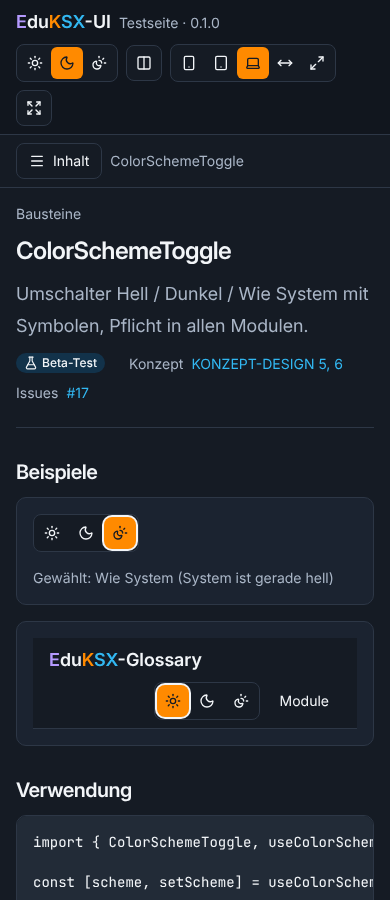
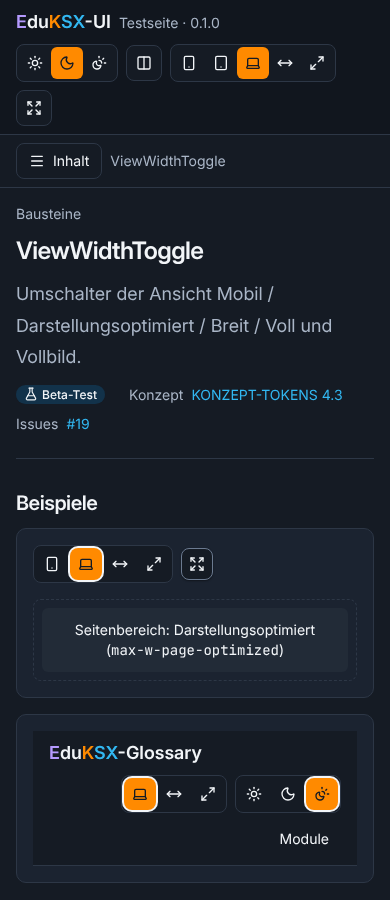
Ansicht-Umschalter und Vollbild als Bausteine
Refs #19

Claude-Session: https://claude.ai/code/session_017cjVRfnzGsvvfNRc5PakGm

diff --git a/src/components/view-width-toggle.tsx b/src/components/view-width-toggle.tsx
@@ -1,0 +1,128 @@
+import { useCallback, useEffect, useState } from 'react';
+import { cn } from '../lib/cn';
+import { IconButton } from './button';
+import { ExpandSymbol, LaptopSymbol, Maximize2Symbol, MoveHorizontalSymbol, ShrinkSymbol, SmartphoneSymbol } from './symbols';
+
+/** Seitenbreite der Ansicht (KONZEPT-TOKENS 4.3, #19): Mobil, Darstellungsoptimiert (Vorgabe), Breit, Voll. */
+export type ViewWidth = 'mobile' | 'optimized' | 'wide' | 'full';
+
+export const VIEW_WIDTHS: ViewWidth[] = ['mobile', 'optimized', 'wide', 'full'];
+
+export const VIEW_WIDTH_LABELS: Record<ViewWidth, string> = {
+    mobile: 'Mobil',
+    optimized: 'Darstellungsoptimiert',
+    wide: 'Breit',
+    full: 'Voll (ganze Breite)',
+};
+
+/**
+ * Tailwind-Klasse der Seitenbreite je Ansicht. Darstellungsoptimierte Seiten (Detailseite, Konto, Anmeldung,
+ * Formulare) nutzen immer `optimized`, auch wenn die Person «Breit» oder «Voll» gewählt hat.
+ */
+export const VIEW_WIDTH_CLASSES: Record<ViewWidth, string> = {
+    mobile: 'max-w-page-mobile',
+    optimized: 'max-w-page-optimized',
+    wide: 'max-w-page-wide',
+    full: 'max-w-none',
+};
+
+export const VIEW_WIDTH_STORAGE_KEY = 'eduksx:ansicht';
+
+function readStored(key: string): ViewWidth {
+    try {
+        const raw = window.localStorage.getItem(key);
+        return raw && (VIEW_WIDTHS as string[]).includes(raw) ? (raw as ViewWidth) : 'optimized';
+    } catch {
+        return 'optimized';
+    }
+}
+
+/** Gewählte Ansicht lesen und je Browser speichern (Vorgabe «Darstellungsoptimiert»). */
+export function useViewWidth(storageKey: string = VIEW_WIDTH_STORAGE_KEY): [ViewWidth, (v: ViewWidth) => void] {
+    const [view, setState] = useState<ViewWidth>(() => (typeof window === 'undefined' ? 'optimized' : readStored(storageKey)));
+    const set = useCallback(
+        (v: ViewWidth) => {
+            try {
+                window.localStorage.setItem(storageKey, v);
+            } catch {
+                /* privater Modus: gilt bis zum Neuladen */
+            }
+            setState(v);
+        },
+        [storageKey],
+    );
+    return [view, set];
+}
+
+export type ViewWidthToggleProps = {
+    value: ViewWidth;
+    onChange: (view: ViewWidth) => void;
+    label?: string;
+    /** Welche Ansichten angeboten werden; «Mobil» lässt sich weglassen, wenn das Modul keine eigene Mobilansicht hat */
+    options?: ViewWidth[];
+    tooltipSide?: 'top' | 'bottom';
+    className?: string;
+};
+
+const ICONS: Record<ViewWidth, typeof LaptopSymbol> = {
+    mobile: SmartphoneSymbol,
+    optimized: LaptopSymbol,
+    wide: MoveHorizontalSymbol,
+    full: Maximize2Symbol,
+};
+
+/**
+ * Umschalter der Ansicht (#19, Vorbild Glossary `view-width-tabs`, DEC-023): Symbol-Knöpfe mit `aria-pressed`,
+ * `aria-label` und Tooltip. Eigene Symbole, nicht verwechselbar mit «Wie System» beim Farbschema.
+ */
+export function ViewWidthToggle({ value, onChange, label = 'Ansicht', options = VIEW_WIDTHS, tooltipSide = 'bottom', className }: ViewWidthToggleProps) {
+    return (
+        <div role="group" aria-label={label} className={cn('inline-flex gap-0.5 rounded-md border border-border bg-background p-0.5', className)}>
+            {options.map((v) => {
+                const Icon = ICONS[v];
+                const active = v === value;
+                return (
+                    <IconButton
+                        key={v}
+                        label={VIEW_WIDTH_LABELS[v]}
+                        icon={<Icon />}
+                        pressed={active}
+                        size="icon-sm"
+                        variant={active ? 'default' : 'ghost'}
+                        tooltipSide={tooltipSide}
+                        onClick={() => onChange(v)}
+                    />
+                );
+            })}
+        </div>
+    );
+}
+
+export type FullscreenButtonProps = { tooltipSide?: 'top' | 'bottom'; className?: string };
+
+/**
+ * Vollbild ein und aus (#19, Pflicht auf dem Desktop). Escape beendet das Vollbild (Browser). Kann der Browser kein
+ * Vollbild (z. B. iPhone), erscheint der Knopf nicht.
+ */
+export function FullscreenButton({ tooltipSide = 'bottom', className }: FullscreenButtonProps) {
+    const [active, setActive] = useState(false);
+    const [supported, setSupported] = useState(false);
+    useEffect(() => {
+        setSupported(typeof document !== 'undefined' && typeof document.documentElement.requestFullscreen === 'function');
+        const on = () => setActive(document.fullscreenElement != null);
+        document.addEventListener('fullscreenchange', on);
+        return () => document.removeEventListener('fullscreenchange', on);
+    }, []);
+    if (!supported) return null;
+    return (
+        <IconButton
+            label={active ? 'Vollbild beenden' : 'Vollbild'}
+            icon={active ? <ShrinkSymbol /> : <ExpandSymbol />}
+            size="icon-sm"
+            variant="outline"
+            tooltipSide={tooltipSide}
+            className={className}
+            onClick={() => (active ? document.exitFullscreen?.() : document.documentElement.requestFullscreen?.())}
+        />
+    );
+}

diff --git a/site/src/sections/bausteine/view-width-toggle.tsx b/site/src/sections/bausteine/view-width-toggle.tsx
@@ -1,0 +1,56 @@
+import { useState } from 'react';
+import { AppHeader } from '../../../../src/components/app-header';
+import { ColorSchemeToggle, type ColorScheme } from '../../../../src/components/color-scheme-toggle';
+import { FullscreenButton, VIEW_WIDTH_CLASSES, VIEW_WIDTH_LABELS, ViewWidthToggle, type ViewWidth } from '../../../../src/components/view-width-toggle';
+import { cn } from '../../../../src/lib/cn';
+import { Example } from '../../ui';
+import { MODULES } from './beispieldaten';
+import { BausteinSeite } from './vorlage';
+
+export function ViewWidthToggleSeite() {
+    // Nur Anzeige: Das Beispiel ändert die Testseite nicht (dafür ist die Vorschau-Leiste da).
+    const [view, setView] = useState<ViewWidth>('optimized');
+    const [scheme, setScheme] = useState<ColorScheme>('system');
+    return (
+        <BausteinSeite
+            beispiele={
+                <div className="space-y-4">
+                    <Example label="ViewWidthToggle und FullscreenButton">
+                        <div className="flex flex-wrap items-center gap-2">
+                            <ViewWidthToggle value={view} onChange={setView} />
+                            <FullscreenButton />
+                        </div>
+                        <div className="mt-4 rounded-md border border-dashed border-border p-2">
+                            <div className={cn('mx-auto rounded-sm bg-muted p-3 text-center text-sm', VIEW_WIDTH_CLASSES[view])} aria-live="polite">
+                                Seitenbereich: {VIEW_WIDTH_LABELS[view]} (<code>{VIEW_WIDTH_CLASSES[view]}</code>)
+                            </div>
+                        </div>
+                    </Example>
+                    <Example label="Kopfzeile rechts: Ansicht, Farbschema, Modulwechsel" className="p-0">
+                        <AppHeader product="Glossary" homeUrl="#/ansicht" modules={MODULES} currentModule="glossary">
+                            <div className="hidden desk:block">
+                                <ViewWidthToggle value={view} onChange={setView} options={['optimized', 'wide', 'full']} />
+                            </div>
+                            <ColorSchemeToggle value={scheme} onChange={setScheme} />
+                        </AppHeader>
+                    </Example>
+                </div>
+            }
+            code={`
+import { FullscreenButton, VIEW_WIDTH_CLASSES, ViewWidthToggle, useViewWidth } from '@eduksx/ui';
+
+const [view, setView] = useViewWidth();   // speichert «eduksx:ansicht», Vorgabe «Darstellungsoptimiert»
+
+<ViewWidthToggle value={view} onChange={setView} />
+<FullscreenButton />
+<main className={cn('mx-auto', VIEW_WIDTH_CLASSES[view])}>…</main>
+`}
+            pruefen={[
+                'Vier Symbol-Knöpfe Handy, Laptop, Pfeil, Maximieren; Tooltip und Bildschirmleser sagen die Ansicht',
+                'Seitenbereich wird 384 px, 1152 px, 1536 px bzw. ganz breit',
+                'Vollbild startet, Knopf heisst danach «Vollbild beenden», Escape beendet',
+                'In der Kopfzeile: auf dem Handy ist die Ansicht ausgeblendet (desk:), Farbschema bleibt',
+            ]}
+        />
+    );
+}

diff --git a/site/src/registry.ts b/site/src/registry.ts
@@ -14,6 +14,7 @@ import { AppHeaderSeite } from './sections/bausteine/app-header';
 import { ModuleSwitcherSeite } from './sections/bausteine/module-switcher';
 import { HistoryListSeite } from './sections/bausteine/history-list';
 import { ColorSchemeToggleSeite } from './sections/bausteine/color-scheme-toggle';
+import { ViewWidthToggleSeite } from './sections/bausteine/view-width-toggle';
 import { ButtonSeite } from './sections/bausteine/button';
 import { TooltipSeite } from './sections/bausteine/tooltip';
 import { FieldSeite } from './sections/bausteine/field';
@@ -58,6 +59,7 @@ export const ENTRIES: Entry[] = [
     { id: 'module-switcher', title: 'ModuleSwitcher', group: 'Bausteine', status: 'beta', summary: 'Modulwechsel als Knopf mit Liste, per Tastatur bedienbar.', concept: { path: 'https://github.com/MarkusKeller8200/EduKSX-Architektur/blob/main/docs/KONZEPT-DESIGN.md', label: 'KONZEPT-DESIGN 6, Plattform S7' }, issues: [6, 12], Page: ModuleSwitcherSeite },
     { id: 'history-list', title: 'HistoryList', group: 'Bausteine', status: 'beta', summary: 'Ansicht «Verlauf», gleich in allen Modulen (DB A7).', concept: { path: 'https://github.com/MarkusKeller8200/EduKSX-Architektur/blob/main/docs/KONZEPT-DESIGN.md', label: 'KONZEPT-DESIGN 4, DB A7' }, issues: [7, 13], Page: HistoryListSeite },
     { id: 'farbschema', title: 'ColorSchemeToggle', group: 'Bausteine', status: 'beta', summary: 'Umschalter Hell / Dunkel / Wie System mit Symbolen, Pflicht in allen Modulen.', concept: { path: 'https://github.com/MarkusKeller8200/EduKSX-Architektur/blob/main/docs/KONZEPT-DESIGN.md', label: 'KONZEPT-DESIGN 5, 6' }, issues: [17], Page: ColorSchemeToggleSeite },
+    { id: 'ansicht', title: 'ViewWidthToggle', group: 'Bausteine', status: 'beta', summary: 'Umschalter der Ansicht Mobil / Darstellungsoptimiert / Breit / Voll und Vollbild.', concept: { path: 'docs/KONZEPT-TOKENS.md', label: 'KONZEPT-TOKENS 4.3' }, issues: [19], Page: ViewWidthToggleSeite },
     { id: 'button', title: 'Button', group: 'Bausteine', status: 'beta', summary: 'Haupt-, Neben-, Umriss-, Text-, Gefahr-Knopf und Link, Symbol-Knöpfe mit Tooltip.', concept: { path: 'docs/KONZEPT-BAUSTEINE.md', label: 'KONZEPT-BAUSTEINE §2.1' }, issues: [27], Page: ButtonSeite },
     { id: 'tooltip', title: 'Tooltip', group: 'Bausteine', status: 'beta', summary: 'Zusatzinfo beim Darüberfahren und beim Fokus (WCAG 1.4.13).', concept: { path: 'docs/KONZEPT-BAUSTEINE.md', label: 'KONZEPT-BAUSTEINE §2.2' }, issues: [27], Page: TooltipSeite },
     { id: 'formularfelder', title: 'Formularfelder', group: 'Bausteine', status: 'beta', summary: 'Field mit Beschriftung, Hinweis und Fehler; Input, Textarea, NativeSelect, Checkbox.', concept: { path: 'docs/KONZEPT-BAUSTEINE.md', label: 'KONZEPT-BAUSTEINE §2.3' }, issues: [27], Page: FieldSeite },

diff --git a/tests/view-width.test.tsx b/tests/view-width.test.tsx
@@ -1,0 +1,34 @@
+import { act, render, renderHook, screen } from '@testing-library/react';
+import userEvent from '@testing-library/user-event';
+import { useState } from 'react';
+import { VIEW_WIDTH_STORAGE_KEY, ViewWidthToggle, useViewWidth, type ViewWidth } from '../src';
+
+function Demo() {
+    const [v, setV] = useState<ViewWidth>('optimized');
+    return <ViewWidthToggle value={v} onChange={setV} />;
+}
+
+describe('ViewWidthToggle (#19)', () => {
+    afterEach(() => window.localStorage.clear());
+
+    it('hat vier benannte Ansichten, Vorgabe darstellungsoptimiert', async () => {
+        const user = userEvent.setup();
+        render(<Demo />);
+        expect(screen.getByRole('group', { name: 'Ansicht' })).toBeInTheDocument();
+        const breit = screen.getByRole('button', { name: 'Breit' });
+        expect(screen.getByRole('button', { name: 'Darstellungsoptimiert' })).toHaveAttribute('aria-pressed', 'true');
+        await user.click(breit);
+        expect(breit).toHaveAttribute('aria-pressed', 'true');
+        expect(screen.getAllByRole('button', { pressed: true })).toHaveLength(1);
+        for (const name of ['Mobil', 'Voll (ganze Breite)']) expect(screen.getByRole('button', { name })).toBeInTheDocument();
+    });
+
+    it('useViewWidth speichert die Wahl und ignoriert ungültige Werte', () => {
+        const { result } = renderHook(() => useViewWidth());
+        expect(result.current[0]).toBe('optimized');
+        act(() => result.current[1]('full'));
+        expect(window.localStorage.getItem(VIEW_WIDTH_STORAGE_KEY)).toBe('full');
+        window.localStorage.setItem(VIEW_WIDTH_STORAGE_KEY, 'riesig');
+        expect(renderHook(() => useViewWidth()).result.current[0]).toBe('optimized');
+    });
+});

diff --git a/src/components/symbols.tsx b/src/components/symbols.tsx
@@ -129,3 +129,56 @@ export const SunMoonSymbol = make(
         <path d="M20 12h2" />
     </>,
 );
+
+export const SmartphoneSymbol = make(
+    <>
+        <rect width="14" height="20" x="5" y="2" rx="2" ry="2" />
+        <path d="M12 18h.01" />
+    </>,
+);
+
+export const LaptopSymbol = make(
+    <>
+        <path d="M18 5a2 2 0 0 1 2 2v8.526a2 2 0 0 0 .212.897l1.068 2.127a1 1 0 0 1-.9 1.45H3.62a1 1 0 0 1-.9-1.45l1.068-2.127A2 2 0 0 0 4 15.526V7a2 2 0 0 1 2-2z" />
+        <path d="M20.054 15.987H3.946" />
+    </>,
+);
+
+export const MoveHorizontalSymbol = make(
+    <>
+        <path d="m18 8 4 4-4 4" />
+        <path d="M2 12h20" />
+        <path d="m6 8-4 4 4 4" />
+    </>,
+);
+
+export const Maximize2Symbol = make(
+    <>
+        <path d="M15 3h6v6" />
+        <path d="m21 3-7 7" />
+        <path d="m3 21 7-7" />
+        <path d="M9 21H3v-6" />
+    </>,
+);
+
+export const ExpandSymbol = make(
+    <>
+        <path d="m15 15 6 6" />
+        <path d="m15 9 6-6" />
+        <path d="M21 16v5h-5" />
+        <path d="M21 8V3h-5" />
+        <path d="M3 16v5h5" />
+        <path d="m3 21 6-6" />
+        <path d="M3 8V3h5" />
+        <path d="M9 9 3 3" />
+    </>,
+);
+
+export const ShrinkSymbol = make(
+    <>
+        <path d="m15 15 6 6m-6-6v4.8m0-4.8h4.8" />
+        <path d="M9 19.8V15m0 0H4.2M9 15l-6 6" />
+        <path d="M15 4.2V9m0 0h4.8M15 9l6-6" />
+        <path d="M9 4.2V9m0 0H4.2M9 9 3 3" />
+    </>,
+);

diff --git a/src/index.ts b/src/index.ts
@@ -30,3 +30,5 @@ export { Alert, ALERT_LABELS } from './components/alert';
 export type { AlertProps, AlertVariant } from './components/alert';
 export { ColorSchemeToggle, useColorScheme, resolveDark, COLOR_SCHEMES, COLOR_SCHEME_LABELS, COLOR_SCHEME_STORAGE_KEY } from './components/color-scheme-toggle';
 export type { ColorScheme, ColorSchemeToggleProps } from './components/color-scheme-toggle';
+export { ViewWidthToggle, FullscreenButton, useViewWidth, VIEW_WIDTHS, VIEW_WIDTH_LABELS, VIEW_WIDTH_CLASSES, VIEW_WIDTH_STORAGE_KEY } from './components/view-width-toggle';
+export type { ViewWidth, ViewWidthToggleProps, FullscreenButtonProps } from './components/view-width-toggle';

diff --git a/docs/KONZEPT-TOKENS.md b/docs/KONZEPT-TOKENS.md
@@ -114,6 +114,10 @@ Desktop-Bedienung (Navigation, Seitenleiste) `desk:` statt `sm:` verwenden; `sm:
 Darstellungsoptimierte Seiten (Detailseite, Konto, Anmeldung, Formulare) bleiben auch bei «Breit» und «Voll» auf
 1152 px und zentriert.
 
+**Baustein (#19):** `ViewWidthToggle` mit `useViewWidth()` (gespeichert als `eduksx:ansicht`, Vorgabe
+Darstellungsoptimiert) und `VIEW_WIDTH_CLASSES` für die Breite des Seitenbereichs; dazu `FullscreenButton`. In der
+Kopfzeile rechts, auf dem Handy ausgeblendet (`desk:`). Testseite: «ViewWidthToggle».
+
 ## 5. Animation (#26, BESCHLOSSEN 22.11.2026)
 
 | Token | Wert | Verwendung |
